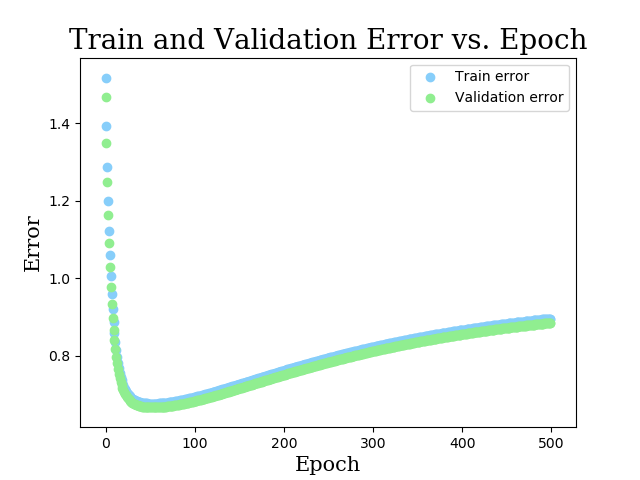
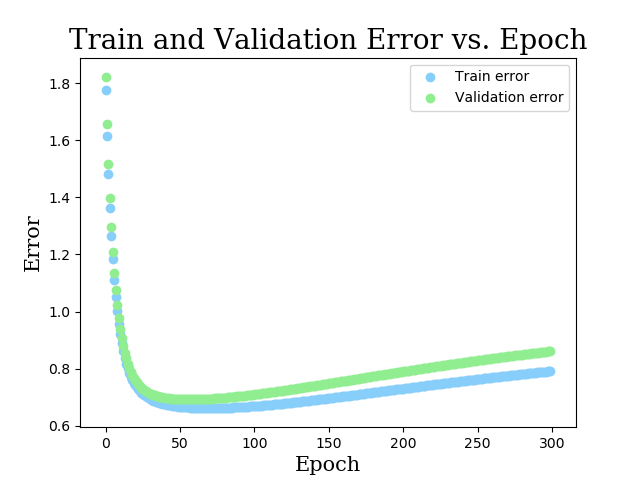
Adding plots

diff --git a/main.py b/main.py
@@ -4,7 +4,6 @@ import knn as knn
 import data as d
 import aux as a
 import numpy as np
-from scipy import stats
 import seaborn as sns
 import matplotlib.pyplot as plt
 from sklearn import tree
@@ -28,13 +27,25 @@ def algorithm_svm1(epochs,num_tests,k=7):
     for i in range(num_tests):
         alpha = 0.05
         constant = 1
-        error_train_list,error_valid_list,w = svm.regression(
+        error_train_list,error_valid_list = svm.regression(
             x_train_features_svm,y_train_values_svm,
             x_valid_features_svm,y_valid_values_svm,alpha,epochs,constant,k)
         
         a.plot_error(epochs,error_train_list,error_valid_list,f"svm{i}")
+        
+def algorithm_svm2(epochs,num_tests,k=7):
+    for i in range(num_tests):
+        alpha = 0.05
+        constant = 1
+        error_train_list,error_valid_list,error_test_list = svm.regression2(
+            x_train_features_svm,y_train_values_svm,
+            x_valid_features_svm,y_valid_values_svm,
+            x_test_features_svm,y_test_values_svm,alpha,epochs,constant,k)
+        
+        a.plot_error2(epochs,error_train_list,error_valid_list,error_test_list,f"svm_test{i}")
 
-#algorithm_svm1(500, 1)
+""" algorithm_svm1(300, 2)
+algorithm_svm2(300, 2) """
 
 #############################
 #### LOGISTIC REGRESSION ####
@@ -57,7 +68,18 @@ def algorithm_logistic1(epochs,num_tests,k=7):
         
         a.plot_error(epochs,error_train_list,error_valid_list,f"logistic{i}")
 
-#algorithm_logistic1(500, 1)
+def algorithm_logistic2(epochs,num_tests,k=7):
+    for i in range(num_tests):
+        alpha = 0.05
+        error_train_list,error_valid_list,error_test_list = log.regression2(
+            x_train_features_log,y_train_values_log,
+            x_valid_features_log,y_valid_values_log,
+            x_test_features_log,y_test_values_log,alpha,epochs,k)
+        
+        a.plot_error2(epochs,error_train_list,error_valid_list,error_test_list,f"logistic_test{i}")
+
+""" algorithm_logistic1(300, 2)
+algorithm_logistic2(300, 2) """
 
 #############################
 ############ KNN ############
@@ -76,9 +98,8 @@ errors = algorithm_knn(5)
 print(np.var(errors))
 print(np.mean(errors))
 
-sns.kdeplot(errors, shade = True)
-plt.show()
-
+""" sns.kdeplot(errors, shade = True)
+plt.show() """
 
 ############################
 ###### DECISION TREES ######

diff --git a/logistic_regression.py b/logistic_regression.py
@@ -28,9 +28,7 @@ def derivates(y, w, x, b,k):
     for i in range(k):
         for j in range(n):
             x_temp = np.array(x.loc[j])
-            #dw[i] += (e ** h(w, x_temp, b) * w[i]) / (1 + e ** (h(w, x_temp, b)))
             dw[i] += (h(w, x_temp, b) - y[i])*x_temp[i]
-        #db += (e ** h(w, x_temp, b)) / (1 + e ** (h(w, x_temp, b)))
         dw[i] /= n
         db += h(w, x_temp, b) - y[i]
     return dw, db/n
@@ -53,3 +51,20 @@ def regression(x_train, y_train, x_valid, y_valid, alpha, epochs, k):
         train_list.append(temp_train)
         valid_list.append(temp_valid)
     return train_list, valid_list
+
+def regression2(x_train, y_train, x_valid, y_valid, x_test, y_test, alpha, epochs, k):
+    w = list(random.rand(k))
+    b = random.rand()
+    train_list = []
+    valid_list = []
+    test_list = []
+    for i in range(epochs):
+        dw, db = derivates(y_train, w, x_train, b,k)
+        w,b = update(w,b,dw,db,alpha,k)
+        temp_train = error(w, x_train, y_train, b)
+        temp_valid = error(w, x_valid, y_valid, b)
+        temp_test = error(w, x_test, y_test, b)
+        train_list.append(temp_train)
+        valid_list.append(temp_valid)
+        test_list.append(temp_test)
+    return train_list, valid_list, test_list

diff --git a/svm.py b/svm.py
@@ -43,4 +43,23 @@ def regression(x_train, y_train, x_valid, y_valid, alpha, epochs, c, k):
         temp_valid = error(w, x_valid, y_valid, b, c)
         train_list.append(temp_train)
         valid_list.append(temp_valid)
-    return train_list, valid_list,w
+    return train_list, valid_list
+
+def regression2(x_train, y_train, x_valid, y_valid, x_test, y_test, alpha, epochs, c, k):
+    w = list(random.rand(k))
+    b = random.rand()
+    train_list = []
+    valid_list = []
+    test_list = []
+    for i in range(epochs):
+        p = random.randint(len(x_train))
+        x_list = x_train.iloc[p].tolist()
+        y_list = y_train.iloc[p]
+        w, b = derivates(y_list, w, x_list, b, c, alpha, epochs)
+        temp_train = error(w, x_train, y_train, b, c)
+        temp_valid = error(w, x_valid, y_valid, b, c)
+        temp_test = error(w, x_test, y_test, b, c)
+        train_list.append(temp_train)
+        valid_list.append(temp_valid)
+        test_list.append(temp_test)
+    return train_list, valid_list, test_list

diff --git a/aux.py b/aux.py
@@ -15,6 +15,20 @@ def plot_error(epochs,error_train_list,error_valid_list,name):
     plt.ylabel("Error",fontdict=font2)
     #plt.show()
     plt.savefig("plots/plot_"+name+".png")
+
+def plot_error2(epochs,error_train_list,error_valid_list,error_test_list,name):
+    plt.figure()
+    p1 = plt.scatter(x=list(range(epochs)), y=error_train_list,color="lightskyblue",alpha=0.75)
+    p2 = plt.scatter(x=list(range(epochs)), y=error_valid_list,color="lightgreen",alpha=0.75)
+    p3 = plt.scatter(x=list(range(epochs)), y=error_test_list,color="mediumpurple",alpha=0.75)
+    
+    plt.legend((p1,p2,p3),["Train error","Validation error","Test error"])
+
+    plt.title("Train, Validation and Test Error vs. Epoch",fontdict=font1)
+    plt.xlabel("Epoch",fontdict=font2)
+    plt.ylabel("Error",fontdict=font2)
+    #plt.show()
+    plt.savefig("plots/plot_"+name+".png")
     
 def save_files(alpha_nums,const_nums):
     alpha_file = open("files/alpha_nums.txt", "w")
